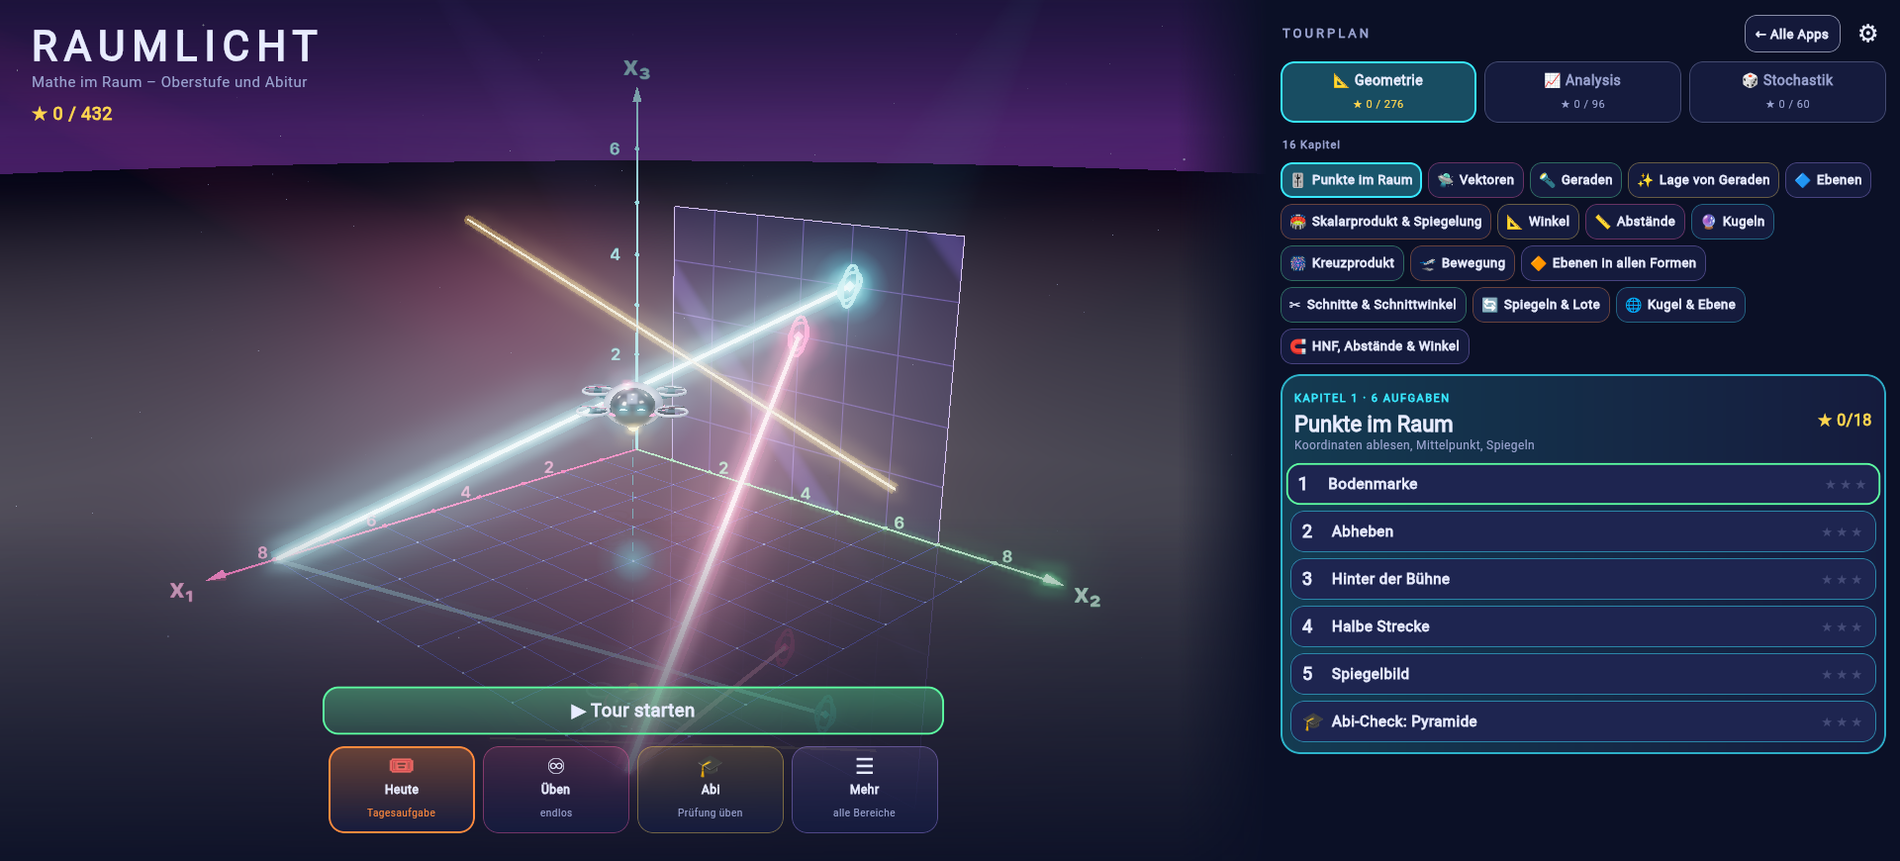
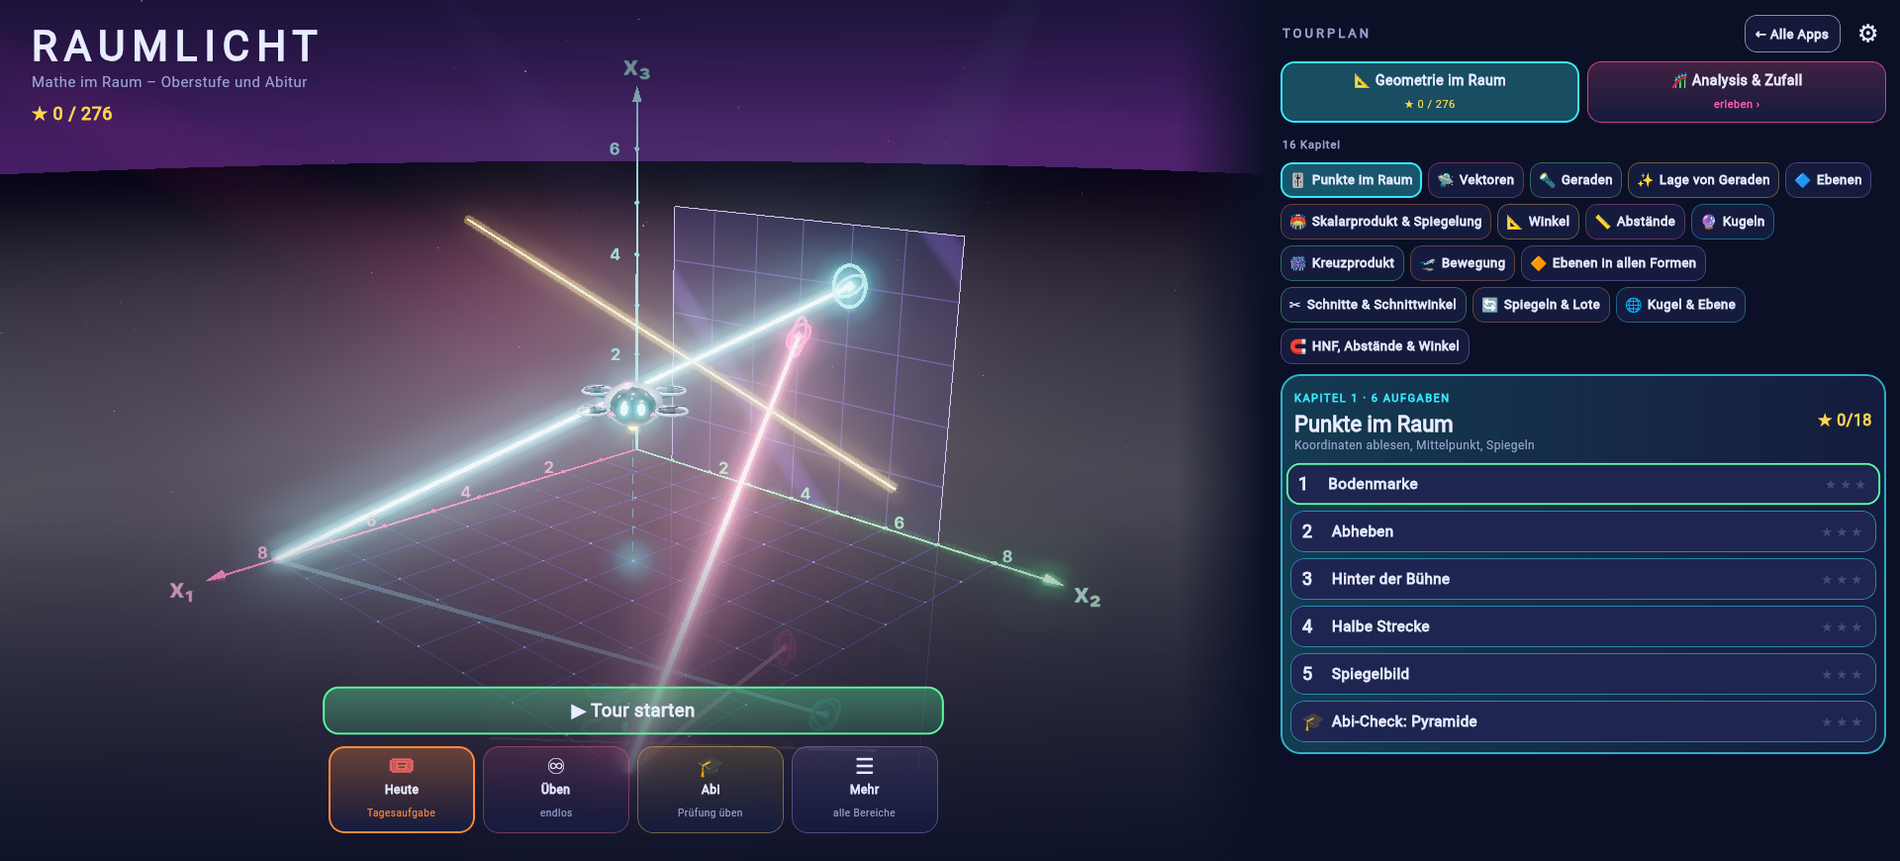
Raumlicht 2.18.32: Profil „Geometrie im Raum“ – 52 Rechenaufgaben zu Analysis und Stochastik heraus, Bereich „Analysis & Zufall erleben“, Rotationskörper-Labor
Claude-Session: https://claude.ai/code/session_015vg1TkCEYsXkAEYjbLFPi2

diff --git a/raumlicht/README.md b/raumlicht/README.md
@@ -4,39 +4,31 @@ Du bist Lichtdesigner:in. Laser sind Geraden, Glasscheiben und Leinwände sind E
 Die Bühne ist echtes 3D: drehen, zoomen, Punkte und Vektoren direkt im Raum ziehen. Das Rechnen ist die Spielhandlung selbst –
 man sieht nur den Anfang eines Strahls, den Rest verrät die Rechnung (Recherche: `../docs/RECHERCHE.md`).
 
-**136 Aufgaben in 25 Kapiteln** aus Geometrie, Analysis und Stochastik, jedes Kapitel endet mit einem Abi-Check – jede Aufgabe mit Tipp und Rechenweg.
-Dazu **7 Prüfungsaufgaben im Abi-Stil**, Tagesaufgabe, Endlos üben und der Bereich „Mehr“: Kurve abfahren, Flug durch den Raum, Ballerbude,
-Achterbahn-Baumeister, Geisterfahrt gegen f′, Ringflug, Zufallsmaschine, Galton-Brett, Binomial-Labor, Rechenweg in Schritten, Ohne Hilfsmittel,
+**Profil seit 2.18.32 (19.11.2026): Geometrie im Raum – dazu Analysis und Zufall zum Erleben.**
+**92 Aufgaben in 16 Kapiteln** zur Geometrie im Raum, jedes Kapitel endet mit einem Abi-Check – jede Aufgabe mit Tipp und Rechenweg.
+Dazu **4 Prüfungsaufgaben im Abi-Stil**, Tagesaufgabe, Endlos üben, der Bereich **„Analysis & Zufall erleben“** (Kurve abfahren, Achterbahn-Baumeister,
+Geisterfahrt gegen f′, Rotationskörper-Labor, Zufallsmaschine, Galton-Brett, Binomial-Labor) und der Bereich „Mehr“: Flug durch den Raum, Ballerbude, Ringflug, Rechenweg in Schritten, Ohne Hilfsmittel,
 Lage von Geraden erkennen, Fehler wiederholen, Fehler-Tagebuch, Lernstand, Klausur-Planer, Kalender der Tagesaufgaben, Duell per Code,
 Zu zweit an einem Gerät, Klassen-Paket, 3D-Rechner & Baukasten, Formelsammlung, Lux gestalten und Erfolge.
 
-| Kapitel | Gebiet | Inhalte |
-|---|---|---|
-| 1 Punkte im Raum | Geometrie | Koordinaten ablesen, Mittelpunkt, Spiegelung an Koordinatenebene, Pyramidenspitze |
-| 2 Vektoren | Geometrie | Verbindungsvektor, Vektorkette, Vielfaches, Parallelogramm, Schwerpunkt |
-| 3 Geraden | Geometrie | Richtungsvektor, Parameter t, Punktprobe, Spurpunkt |
-| 4 Lage von Geraden | Geometrie | Schnittpunkt, parallel, windschief reparieren |
-| 5 Ebenen | Geometrie | Durchstoßpunkt, Koordinatenform bauen, Normalenvektor, Schattenpunkt |
-| 6 Skalarprodukt & Spiegelung | Geometrie | orthogonal, Lotfußpunkt, Spiegelpunkt, Abstand Punkt–Ebene, Reflexion über Bande |
-| 7 Winkel | Geometrie | Vektor–Vektor, Gerade–Ebene, Ebene–Ebene (15°-Schritte, Winkelbogen in 3D) |
-| 8 Abstände | Geometrie | Lotfußpunkt auf Gerade, Punkt–Gerade, parallele Ebenen, windschiefe Geraden |
-| 9 Kugeln | Geometrie | Radius, Mittelpunkt, Gerade trifft Kugel, Tangentialebene, Schnittkreis, Berührung |
-| 10 Kreuzprodukt | Geometrie | Parallelogramm- und Dreiecksfläche, Pyramidenvolumen, Schnittgerade |
-| 11 Bewegung | Geometrie | Ort nach t Sekunden, Tempo, Treffpunkt, kleinster Abstand zweier Drohnen |
-| 12 Rotationskörper | Analysis | Zylinder, Kegel, Vase, Kugel, Trichter (V = π·∫f²) |
-| 13 Wahrscheinlichkeit | Stochastik | Laplace, Pfadregel mit/ohne Zurücklegen, Erwartungswert, Gegenereignis |
-| 14 Kurvendiskussion | Analysis | Nullstelle, Hoch-/Tiefpunkt, Wendestelle, Fläche unter der Kurve (Lux fährt mit, Tangente live) |
-| 15 Funktionen bauen | Analysis | Gerade, Scheitelform, Steckbriefaufgabe |
-| 16 Bäume, Tafeln, Binomial | Stochastik | Baumdiagramm, Vierfeldertafel, bedingte Wahrscheinlichkeit, σ |
-| 17 Ableiten & Anwenden | Analysis | Steigung, Kettenregel, Tangente, Extremwert, Wachstum |
-| 18 Ebenen in allen Formen | Geometrie | Parameter-, Normalen-, Koordinaten- und Achsenabschnittsform, Spurpunkte |
-| 19 Schnitte & Schnittwinkel | Geometrie | Schnittgerade, Winkel Ebene–Ebene und Gerade–Ebene, parallel, Abstand |
-| 20 Spiegeln & Lote | Geometrie | Spiegeln an Punkt, Gerade und Ebene, Abstand windschiefer Geraden |
-| 21 Kugel & Ebene | Geometrie | Berühren, Schnittkreis, zwei Kugeln, Durchflug |
-| 22 Integrale & Flächen | Analysis | Stammfunktion, Fläche, zwischen zwei Kurven, Bestand aus Änderungsrate |
-| 23 Erwartung, Sigma, Testen | Stochastik | fairer Einsatz, Bernoulli-Kette, Mindestanzahl, Sigma-Regel, Hypothesentest |
-| 24 Binomialverteilung | Stochastik | genau, höchstens, mindestens k Treffer – einzeln und kumuliert, Tabelle lesen |
-| 25 e-Funktion & Logarithmus | Analysis | Gleichungen, Kurvendiskussion mit Produkt- und Kettenregel, Integrale mit e^x und 1 : x |
+| Kapitel | Inhalte |
+|---|---|
+| 1 Punkte im Raum | Koordinaten ablesen, Mittelpunkt, Spiegelung an Koordinatenebene, Pyramidenspitze |
+| 2 Vektoren | Verbindungsvektor, Vektorkette, Vielfaches, Parallelogramm, Schwerpunkt |
+| 3 Geraden | Richtungsvektor, Parameter t, Punktprobe, Spurpunkt |
+| 4 Lage von Geraden | Schnittpunkt, parallel, windschief reparieren |
+| 5 Ebenen | Durchstoßpunkt, Koordinatenform bauen, Normalenvektor, Schattenpunkt |
+| 6 Skalarprodukt & Spiegelung | orthogonal, Lotfußpunkt, Spiegelpunkt, Abstand Punkt–Ebene, Reflexion über Bande |
+| 7 Winkel | Vektor–Vektor, Gerade–Ebene, Ebene–Ebene (15°-Schritte, Winkelbogen in 3D) |
+| 8 Abstände | Lotfußpunkt auf Gerade, Punkt–Gerade, parallele Ebenen, windschiefe Geraden |
+| 9 Kugeln | Radius, Mittelpunkt, Gerade trifft Kugel, Tangentialebene, Schnittkreis, Berührung |
+| 10 Kreuzprodukt | Parallelogramm- und Dreiecksfläche, Pyramidenvolumen, Schnittgerade |
+| 11 Bewegung | Ort nach t Sekunden, Tempo, Treffpunkt, kleinster Abstand zweier Drohnen |
+| 12 Ebenen in allen Formen | Parameter-, Normalen-, Koordinaten- und Achsenabschnittsform, Spurpunkte |
+| 13 Schnitte & Schnittwinkel | Schnittgerade, Winkel Ebene–Ebene und Gerade–Ebene, parallel, Abstand |
+| 14 Spiegeln & Lote | Spiegeln an Punkt, Gerade und Ebene, Abstand windschiefer Geraden |
+| 15 Kugel & Ebene | Berühren, Schnittkreis, zwei Kugeln, Durchflug |
+| 16 HNF, Abstände & Winkel | Hessesche Normalform, parallele Geraden und Ebenen, Winkel zwischen Geraden und zwischen Ebenen |
 
 **Weitere Spielarten** (Namen wie in der App, Bereich „Mehr“)
 - 🔎 **Fehler-Analyse** – typische Fehler (A − B statt B − A, nicht gemittelt, Kosinus statt Sinus, ⅓ vergessen …) werden gezielt benannt (`mistakes` in `Families`);
@@ -45,9 +37,10 @@ Zu zweit an einem Gerät, Klassen-Paket, 3D-Rechner & Baukasten, Formelsammlung,
 - 🏫 **Klassen-Paket (für Lehrkräfte)** – Paket-Code `RLK-…` (`ClassCode`). 👥 **Zu zweit an einem Gerät** (`Match`). 🧮 **3D-Rechner & Baukasten** (`Show.facts`).
 - 🎢 **Kurve abfahren (Fahrersicht)** – Fahrersicht auf dem Graphen mit Live-Cockpit für f, f′ und f″, auch mit eigener Funktion (`Coaster`, `RideScreen`, Szenen-Objekt `track`, `RL.ride`).
 - 🚀 **Flug durch den Raum** (`Flights`), 🏗 **Achterbahn-Baumeister**, 👻 **Geisterfahrt gegen f′**, ⭕ **Ringflug**.
-- 🎈 **Ballerbude**, 🎲 **Zufallsmaschine**, 🎰 **Galton-Brett** (`Galton`), 📊 **Binomial-Labor** (`Binomial`) für die Stochastik.
+- 🎈 **Ballerbude**, 🎲 **Zufallsmaschine**, 🎰 **Galton-Brett** (`Galton`), 📊 **Binomial-Labor** (`Binomial`) – Zufall zum Erleben.
+- 🏺 **Rotationskörper-Labor** (seit 2.18.32) – Kurve, Zahlen und Grenzen frei wählen, der Körper wächst in 3D; Volumen exakt (Vielfaches von π) mit ganzem Rechenweg und Probe (`RotationLab`, `RotationScreen`).
 - 📐 **Querformat/Tablet** – Bühne links, Regler rechts (`LevelScreen`, ab Breite > 1,15 × Höhe).
-- 🎓 **Abi-Prüfungsaufgaben** – 7 Aufgaben im Abi-Stil mit mehreren Teilaufgaben und Bewertungseinheiten (`Exams`); freiwillig auf Zeit (45 s je BE).
+- 🎓 **Abi-Prüfungsaufgaben** – 4 Aufgaben im Abi-Stil (Geometrie im Raum) mit mehreren Teilaufgaben und Bewertungseinheiten (`Exams`); freiwillig auf Zeit (45 s je BE).
 - ✍ **Ohne Hilfsmittel** – 6 kurze Aufgaben wie im Pflichtteil, ohne Tipp (`Quick`).
 - 🧭 **Lage von Geraden erkennen** – acht Runden Lagebeziehung zweier Geraden erkennen; die Bühne zeigt die Geraden erst nach der Antwort.
 - ⚔ **Duell per Code** – Code wie `RL-4A1B2X` (Thema + Seed + Prüfziffer) steht für dieselben fünf Aufgaben, ohne Server.
@@ -59,7 +52,10 @@ Zu zweit an einem Gerät, Klassen-Paket, 3D-Rechner & Baukasten, Formelsammlung,
 - 📅 **Tagesaufgabe** – jeden Tag eine Aufgabe (Themen wechseln reihum), für drei Jahre im Test auf Lösbarkeit geprüft; 🎟 **Kalender der Tagesaufgaben** (`Calendar`) – verpasste Tage kosten nichts.
 - 📓 **Formelsammlung** – alle Formeln, mit Sprung zu den passenden Aufgaben. 🏅 **Erfolge** – 14 Auszeichnungen für Fortschritt. Ergebnis-Karte zum Teilen (`ShareCard`).
 
-**Aufbau für Nutzer:** drei Gebiete – Geometrie (Kapitel 1–11 und 18–21), Analysis (12, 14, 15, 17, 22, 25), Stochastik (13, 16, 23, 24). Kapitel heißen nach ihrem Thema.
+**Aufbau für Nutzer:** die Tour „Geometrie im Raum“ mit 16 Kapiteln (lückenlos 1–16 angezeigt) und daneben „Analysis & Zufall erleben“. Kapitel heißen nach ihrem Thema.
+Intern tragen die Kapitel weiter ihre alten Nummern (1–11, 18–21, 26), damit Sterne und Links von außen (`?ziel=level/5-6`) gültig bleiben; `Levels.shown` und `Levels.label` rechnen für die Anzeige um.
+Die früheren Kapitel 12–17 und 22–25 (52 Rechenaufgaben zu Analysis und Stochastik) sind seit 2.18.32 herausgenommen – der Mathe-Trainer hat sie alle als Rechentraining
+(Entscheidung und Abgleich: `WOCHENRUNDE.md`). Ihre Definitionen liegen noch ungenutzt im Quelltext (`Levels.removed`) und werden nach der Live-Freigabe gelöscht.
 In älteren Abschnitten dieses READMEs und in Dateinamen der Bildschirmfotos stehen teils noch die früheren Namen
 (Gig = Aufgabe, Tagesgig = Tagesaufgabe, Jam-Session = Endlos üben, Backstage = Mehr, Spickzettel = Formelsammlung, Abzeichen = Erfolge, Zweite Chance = Fehler wiederholen).
 
@@ -82,18 +78,17 @@ In älteren Abschnitten dieses READMEs und in Dateinamen der Bildschirmfotos ste
 | ![](screenshots/20_lichtkuppel.png) | ![](screenshots/21_lichtsegel.png) | ![](screenshots/22_zeltvolumen.png) |
 | ![](screenshots/23_jam_session.png) | ![](screenshots/24_jam_aufgabe.png) | ![](screenshots/25_tagesgig.png) |
 | ![](screenshots/26_spickzettel.png) | ![](screenshots/27_abzeichen.png) | ![](screenshots/28_bewegung.png) |
-| ![](screenshots/29_rotationskoerper.png) | ![](screenshots/30_backstage.png) | ![](screenshots/31_abi_simulation.png) |
+| ![](screenshots/93_rotationskoerper_labor.png) | ![](screenshots/30_backstage.png) | ![](screenshots/31_abi_simulation.png) |
 | ![](screenshots/32_abi_teilaufgabe.png) | ![](screenshots/33_lage_check.png) | ![](screenshots/34_duell.png) |
 | ![](screenshots/35_lux_werkstatt.png) | ![](screenshots/36_show_baukasten.png) | ![](screenshots/37_widget.png) |
-| ![](screenshots/38_stochastik.png) | ![](screenshots/39_achterbahn.png) | ![](screenshots/40_leuchtflaeche.png) |
+| ![](screenshots/92_analysis_zufall_erleben.png) | | |
 | ![](screenshots/41_schritt_fuer_schritt.png) | ![](screenshots/42_schritt.png) | ![](screenshots/43_lernstand.png) |
 | ![](screenshots/44_klausur_planer.png) | ![](screenshots/45_klasse.png) | ![](screenshots/46_zu_zweit.png) |
 | ![](screenshots/47_rechner.png) | ![](screenshots/15_einstellungen.png) | |
 
 | ![](screenshots/49_achterbahn_fahrersicht.png) | ![](screenshots/50_achterbahn_aussen.png) | |
 
-| ![](screenshots/52_funktion_bauen.png) | ![](screenshots/53_baumdiagramm.png) | ![](screenshots/54_vierfeldertafel.png) |
-| ![](screenshots/55_extremwert.png) | ![](screenshots/56_galton_brett.png) | ![](screenshots/57_raumflug.png) |
+| ![](screenshots/56_galton_brett.png) | ![](screenshots/57_raumflug.png) | |
 | ![](screenshots/58_ableitung_und_flaeche.png) | ![](screenshots/59_fehler_tagebuch.png) | ![](screenshots/60_kalender.png) |
 | ![](screenshots/61_ohne_hilfsmittel.png) | ![](screenshots/62_lux_fuehrt_vor.png) | ![](screenshots/63_widget_lernstand.png) |
 

diff --git a/raumlicht/MELDUNG_AN_LEITSTAND.md b/raumlicht/MELDUNG_AN_LEITSTAND.md
@@ -2,6 +2,31 @@
 
 Neueste oben.
 
+## 19.11.2026 – 2.18.32 auf test: Umbau aufs Profil „Geometrie im Raum + Analysis & Zufall erleben“ (von Marcel direkt bestätigt am 18.11.; auf heute vorgezogen laut AppZentrale)
+
+**Herausgenommen (gestrichen, nicht verschoben – der Mathe-Trainer hat laut seinem Abgleich alle Aufgabentypen):**
+- 10 Kapitel, 52 Aufgaben: 12 Rotationskörper, 13 Wahrscheinlichkeit, 14 Kurvendiskussion, 15 Funktionen bauen, 16 Bäume/Tafeln/Binomial, 17 Ableiten & Anwenden, 22 Integrale & Flächen, 23 Erwartung/Sigma/Testen, 24 Binomialverteilung, 25 e-Funktion & Logarithmus.
+- 3 von 7 Abi-Prüfungsaufgaben (Lichtbogen, Lostrommel, Einlass). Im endlosen Üben und in der Tagesaufgabe die Aufgabenart „Rotationskörper-Volumen“. „Ohne Hilfsmittel“ zieht 6 Aufgaben nur noch aus der Geometrie.
+- „Kommt bald“: Unabhängigkeit, Zufallsgrößen, Normalverteilung, Sinus/Kosinus, Funktionenscharen → ersetzt durch Schattenwurf, Körper im Raum, Lage von Gerade und Ebene (LGS bleibt).
+
+**Bleibt / neu:**
+- **92 Aufgaben in 16 Kapiteln**, angezeigt lückenlos 1–16. Intern bleiben die Nummern 1–11, 18–21, 26 (Sterne, Links von außen wie `?ziel=level/5-6`, `level/3-1`, `level/5-1` gelten weiter). 4 Abi-Prüfungsaufgaben (Festivalzelt, Laser & Leinwand, Drohnen-Show, Planetarium).
+- **Startseite:** statt drei Gebiets-Reitern jetzt „📐 Geometrie im Raum“ und daneben „🎢 Analysis & Zufall erleben ›“.
+- **Seite „Analysis & Zufall erleben“** (`?ziel=erleben`): Kurve abfahren, Achterbahn-Baumeister, Geisterfahrt gegen f′, Rotationskörper-Labor, Zufallsmaschine, Galton-Brett, Binomial-Labor – und unten „Mehr üben im Mathe-Trainer“ mit zehn Links (`#/u/regeln`, `kurve`, `extremwert`, `integral`, `a-rotation`, `expln`, `s-baum`, `s-bedingt`, `s-verteilung`, `s-test`).
+- **Rotationskörper-Labor** (`?ziel=rotation`, frei, kein Pro): sieben Vorlagen (Zylinder, Kegel, Kegelstumpf, Vase, Trichter, Kugel, Kelch) und eigene Kurve (Gerade, Wurzel, Halbkreis, Parabel) mit eigenen Zahlen und Grenzen; der Körper wächst in 3D. Volumen exakt als Vielfaches von π und gerundet, Rechenweg in sechs Schritten, Probe mit der Schulformel bei Zylinder, Kegel, Kugel; verständliche Rückmeldung bei unpassender Eingabe.
+
+**Geprüft:**
+- Jedes Volumen des Labors ist doppelt gerechnet: exakt (Stammfunktion, Brüche) und mit 4000 bzw. 20000 Scheiben – für alle Vorlagen und alle 400+ einstellbaren gültigen Kombinationen (`ErlebenTest`). Bekannte Körper gegen die Schulformeln (Zylinder 16π, Kegel 9π, Kugel 36π, Halbkugel 18π).
+- Test, dass nirgends eine gestrichene Aufgabe auftaucht (Tour, Abi-Teil, Pflichtteil, Tagesaufgabe, Üben, Formelsammlung-Sprünge, „Kommt bald“); alte Links auf gestrichene Aufgaben führen zur Startseite.
+- 189 Logik-Tests, 150 Oberflächentests, Lint, 131 Browser-Prüfungen (Wasm und JS) – alle bestanden. Bilder: `screenshots/92_analysis_zufall_erleben.png`, `93_rotationskoerper_labor.png`.
+
+**Bitte von dir / offen:**
+- **Shop-Texte:** Raumlicht Pro und KI-Abi-Pass sollten nicht mehr „Analysis und Stochastik“ versprechen. In der App nennt Pro jetzt „alle 92 Aufgaben in 16 Kapiteln“, 4 Prüfungsaufgaben; der KI-Tutor erklärt weiter jede Aufgabe. Im Server-Prompt (`raumlicht/server/raumlicht-ki.js`) steht jetzt „Analytische Geometrie und Vektoren im Raum“ – bitte übernehmen.
+- **/lern-apps/-Text und Eltern-Seite:** Raumlicht meldet im Eltern-Bericht nur noch ein Gebiet („Vektoren und Geometrie“, 92 Aufgaben).
+- **Noch nicht gelöscht:** Die Definitionen der gestrichenen Kapitel liegen ungenutzt im Quelltext (`Levels.removed`). Ich lösche sie nach deiner Live-Freigabe, damit ein Zurück bis dahin leicht bleibt.
+- **Android-Widget „Lernstand“** (APK pausiert) zeigt noch drei Balken, zwei davon bleiben leer. Wird angepasst, falls die APK wieder ausgeliefert wird.
+- Links zum Mathe-Trainer: Die zehn Kennungen stammen aus seiner Liste vom 18.11.; ich habe sie nicht einzeln im Browser geöffnet.
+
 ## 18.11.2026 – 2.18.31 auf test: Knopf „← Alle Apps“ (Marcel hat hier selbst „Ok“ gesagt)
 
 - **Wo:** oben auf der Startseite neben dem Zahnrad; am PC in der Kopfzeile der rechten Spalte. Bilder: `screenshots/91_alle_apps.png` (Handy), `screenshots/90_startseite_pc.png` (PC).

diff --git a/raumlicht/PRUEFPLAN.md b/raumlicht/PRUEFPLAN.md
@@ -8,14 +8,16 @@ Angelegt am 18.11.2026 (Auftrag: „jede Woche neuer Inhalt, einmal im Monat geg
 - **Jeden Monat (ab dem 24.):** ein Block gründlich, dazu der neue Inhalt des Monats und die kurze Rundum-Prüfung.
 - Beides läuft als geplante Aufgabe in dieser Sitzung (dienstags und freitags 8:47 Uhr und am 24. um 9:41 Uhr).
 
+**Seit 2.18.32 (19.11.2026):** Raumlicht hat nur noch Aufgaben zur Geometrie im Raum (16 Kapitel, 92 Aufgaben; intern Kapitel 1–11, 18–21, 26). Die Rechenaufgaben zu Analysis und Stochastik sind herausgenommen; Block 3 und 4 prüfen stattdessen die Erlebnis-Bereiche.
+
 ## Die vier Blöcke (rollierend)
 
 | Block | Inhalt | Monate |
 |---|---|---|
 | 1 | Geometrie I: Kapitel 1–8 (Punkte, Vektoren, Geraden, Lage, Ebenen, Skalarprodukt/Spiegelung, Winkel, Abstände) | November, März, Juli |
 | 2 | Geometrie II: Kapitel 9–11, 18–21, 26 (Kugeln, Kreuzprodukt, Bewegung, Ebenen-Formen, Schnitte, Spiegeln & Lote, Kugel & Ebene, HNF) | Dezember, April, August |
-| 3 | Analysis: Kapitel 12, 14, 15, 17, 22, 25 – und die Erlebnis-Teile (Kurve abfahren, Baumeister, Geisterfahrt, eigene Funktionen) | Januar, Mai, September |
-| 4 | Stochastik: Kapitel 13, 16, 23, 24 – dazu Prüfungsaufgaben, „Rechenweg in Schritten“, Übungs- und Tagesaufgaben (alle Vorlagen), Zufallsmaschine, Galton-Brett, Binomial-Labor | Februar, Juni, Oktober |
+| 3 | Analysis & Zufall erleben: Kurve abfahren (auch eigene Funktionen), Achterbahn-Baumeister, Geisterfahrt, Rotationskörper-Labor (alle Formen und Bereiche, Rechenweg, Rückmeldungen) | Januar, Mai, September |
+| 4 | Zufallsmaschine, Galton-Brett, Binomial-Labor – dazu Prüfungsaufgaben, „Rechenweg in Schritten“, Übungs- und Tagesaufgaben (alle Vorlagen), Verweise zu den anderen Apps | Februar, Juni, Oktober |
 
 So ist jeder Teil dreimal im Jahr gründlich dran.
 
@@ -42,6 +44,7 @@ So ist jeder Teil dreimal im Jahr gründlich dran.
 | Monat | Neuer Inhalt | Version |
 |---|---|---|
 | November 2026 | Eltern-Handy koppeln (Bericht, QR-Code), „Kommt bald“-Kacheln, Lern-Protokoll | 2.18.26 |
+| November 2026 | Umbau aufs Profil „Geometrie im Raum“: 52 Rechenaufgaben zu Analysis und Stochastik heraus, Bereich „Analysis & Zufall erleben“, Rotationskörper-Labor (neu), Kapitel lückenlos 1–16 | 2.18.32 |
 | November 2026 | Kapitel 26 „HNF, Abstände & Winkel“ (8 Aufgaben), 5 neue Theorie-Karten, Formel-Kasten in allen Karten | 2.18.25 |
 
 ## Protokoll

diff --git a/raumlicht/WOCHENRUNDE.md b/raumlicht/WOCHENRUNDE.md
@@ -79,6 +79,11 @@ Links `https://trainer.mathenachhilfe-online.com/#/u/<id>`:
 - **Experimentopia-Links mit festen Namen** (ab Fr 20.11. auf `experimentopia-test.`, danach live): `https://experimentopia.mathenachhilfe-online.com/#thema=<name>`. Für uns passend: Achterbahn-Baumeister → `energie` (sobald dort gebaut), Schatten-Aufgabe 5-6 → `optik`. Weitere Namen: `schwimmen`, `hebel`, `rollen`, `kraft`, `fallen`, `pendel`, `strom`, `magnet`, `waerme`, `licht`, `schall`, `elektromagnetismus`, `trennen`, `saeure`, `reaktion`, `vererbung`, `zellen`, `ernaehrung`, `oekologie`, `koerper`. Unbekannte Namen öffnen die Startseite. Experimentopia verlinkt nur auf freie Inhalte.
 - **Vorschlag „Aufräum-Tag“ für Fr 20.11.** (Experimentopia gibt ihn als Marcels Vorschlag weiter): Abgaben umsetzen, Direkt-Links und Querverweise bauen, neuer Inhalt nur im eigenen Profil; strittige Abgaben (u. a. Oberstufe Raumlicht/Mathe-Trainer) bleiben bis Montag unverändert. Für Raumlicht heißt das: Gauß als drei Ebenen (eigenes Profil) und Querverweise; an den 52 Analysis-/Stochastik-Aufgaben wird nichts geändert.
 
+## UMGESETZT am 19.11.2026 mit 2.18.32 (auf test)
+
+Der Umbau unten ist gebaut: 52 Aufgaben heraus, 92 Aufgaben in 16 Kapiteln, Bereich „Analysis & Zufall erleben“ (`?ziel=erleben`), Rotationskörper-Labor (`?ziel=rotation`). Einzelheiten in `MELDUNG_AN_LEITSTAND.md`.
+**Für die nächsten Updates:** nur Geometrie im Raum (LGS & Gauß als drei Ebenen, Schattenwurf, Körper im Raum, Lage Gerade–Ebene) und Erlebnis-Bereiche; keine neuen Rechenaufgaben zu Analysis oder Stochastik.
+
 ## ENTSCHEIDUNG von Marcel, direkt bestätigt am 18.11.2026 (gilt vor allem Älteren in dieser Datei)
 
 - **Die klassischen Aufgaben zu Analysis und Stochastik kommen aus Raumlicht heraus.** Der Mathe-Trainer hat alle 52 Aufgabentypen schon (Abgleich vom 18.11.) – also **streichen, nicht verschieben**. An ihre Stelle kommen Links „Mehr üben im Mathe-Trainer“ (`#/u/kurve`, `integral`, `expln`, `regeln`, `anwenden`, `extremwert`, `s-verteilung`, `s-test`, `s-bedingt`, `s-baum`, `a-rotation`).

diff --git a/raumlicht/CHANGELOG.md b/raumlicht/CHANGELOG.md
@@ -2,6 +2,14 @@
 
 Jede Version steht hier mit ihrem Datum.
 
+## 2.18.32 – Raumlicht wird klarer: Geometrie im Raum, dazu Analysis und Zufall zum Erleben (19.11.2026)
+- **Ein klares Profil:** Raumlicht ist jetzt ganz die App für die **Geometrie im Raum** – Punkte, Vektoren, Geraden, Ebenen, Kugeln, Abstände und Winkel. 92 Aufgaben in 16 Kapiteln, durchgehend von 1 bis 16 nummeriert.
+- **Die Rechenaufgaben zu Analysis und Stochastik sind jetzt im Mathe-Trainer.** Dort übst du sie in Stufen, mit jedem Rechenschritt. In Raumlicht findest du an ihrer Stelle den direkten Weg dorthin.
+- **Neu: „Analysis & Zufall erleben“** – direkt auf der Startseite. Hier wird nicht gerechnet, sondern ausprobiert: Kurve abfahren, Achterbahn-Baumeister, Geisterfahrt gegen f′, Zufallsmaschine, Galton-Brett, Binomial-Labor.
+- **Neu: das Rotationskörper-Labor.** Wähle eine Kurve, stell Zahlen und Grenzen ein – die Kurve dreht sich und der Körper wächst vor dir im Raum: Zylinder, Kegel, Kugel, Vase, Kelch. Darunter steht das Volumen mit dem ganzen Rechenweg.
+- Abi-Prüfungsaufgaben, „Ohne Hilfsmittel“, Tagesaufgabe und endloses Üben stellen nur noch Aufgaben zur Geometrie im Raum.
+- **Für Eltern:** Es geht nichts verloren – jede herausgenommene Aufgabenart gibt es im Mathe-Trainer. Wer Raumlicht Pro hat, behält es; es schaltet weiter alle Aufgaben, Prüfungen und Bereiche von Raumlicht frei.
+
 ## 2.18.31 – „← Alle Apps“: mit einem Tipp zurück zur App-Auswahl (18.11.2026)
 - **Neu oben auf der Startseite:** der Knopf „← Alle Apps“. Er führt zurück zur Übersicht unserer Lern-Apps auf der Website. Am PC sitzt er oben rechts neben dem Zahnrad.
 - In Aufgaben, Spielen und Prüfungen erscheint er nicht – dort stört nichts.

diff --git a/raumlicht/THEORIE-PRUEFLISTE.md b/raumlicht/THEORIE-PRUEFLISTE.md
@@ -1,5 +1,7 @@
 # Prüfliste Theorie – Raumlicht
 
+**Seit 2.18.32 (19.11.2026):** Zu Aufgaben gehören nur noch die Geometrie-Karten. Die Karten zu Analysis und Stochastik (`Theory.erleben`) hängen an keiner Aufgabe mehr; sie bleiben für den Bereich „Analysis & Zufall erleben“ und werden weiter mitgeprüft (Format, Formel-Kasten).
+
 Erzeugt aus dem Code (Stand der Version im Kopf von CHANGELOG.md). Für jede feste Aufgabe: welche Theorie-Karte sie zeigt und welche Formel dort hervorgehoben steht.
 
 | Aufgabe | Titel | Theorie-Karte | Formel in der Karte |
